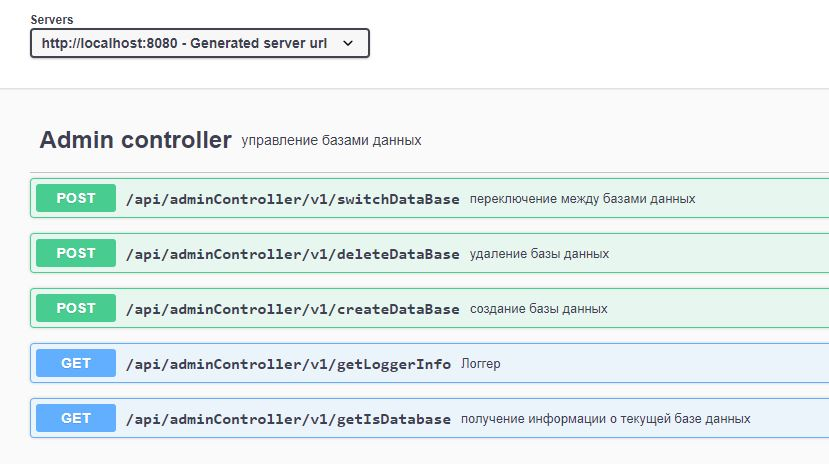
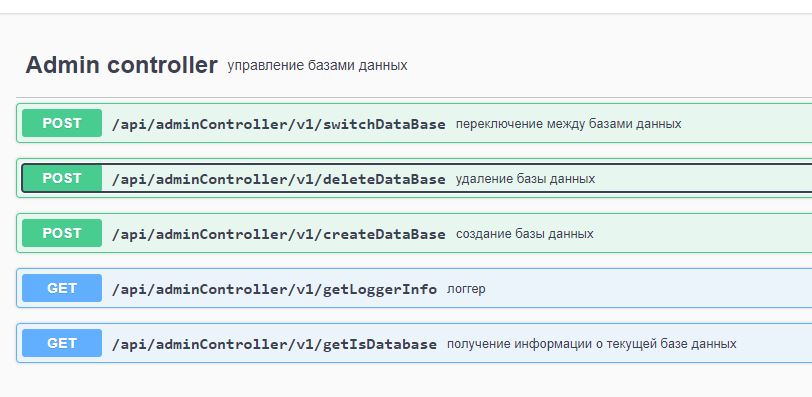
refactoring

Changed region(s): [[0.0, 0.2418, 1.0, 0.9673], [0.0308, 0.0302, 0.5234, 0.1814]]

diff --git a/Glossary/src/main/java/com/zvezdilin/Glossary/api/AdminController.java b/Glossary/src/main/java/com/zvezdilin/Glossary/api/AdminController.java
@@ -63,13 +63,14 @@ public class AdminController {
     )
     @PostMapping(value = "createDataBase")
     public String createDataBase() {
+        boolean tmp;
         if (isDataBase == IsDataBase.MONGODB) {
             dao = new MongoDbDao();
         } else {
             dao = new PostgreSqlDao();
         }
-        dao.createDatabase();
-        myLogger.appendInfo("Attempt to create a database. Status: " + getIsDatabaseInfo());
+        tmp = dao.createDatabase();
+        myLogger.appendInfo("Attempt to create a database: " + getIsDatabaseInfo() + ". " + "Status " + String.valueOf(tmp));
         return "Created database a " + getIsDatabaseInfo();
     }
 
@@ -79,13 +80,14 @@ public class AdminController {
     )
     @PostMapping(value = "deleteDataBase")
     public String deleteDataBase() {
+        boolean tmp;
         if (isDataBase == IsDataBase.MONGODB) {
             dao = new MongoDbDao();
         } else {
             dao = new PostgreSqlDao();
         }
-        dao.deleteDatabase();
-        myLogger.appendInfo("Attempt to delete a database " + getIsDatabaseInfo());
+        tmp = dao.deleteDatabase();
+        myLogger.appendInfo("Attempt to delete a database: " + getIsDatabaseInfo() + ". " + "Status: " + String.valueOf(tmp));
         return "deleted database a " + getIsDatabaseInfo();
     }
 
@@ -99,7 +101,7 @@ public class AdminController {
     }
 
     @Operation(
-            summary = "Логгер"
+            summary = "логгер"
     )
     @GetMapping("getLoggerInfo")
     public String getLoggerInfo() {

diff --git a/Glossary/src/main/java/com/zvezdilin/Glossary/api/EngineController.java b/Glossary/src/main/java/com/zvezdilin/Glossary/api/EngineController.java
@@ -3,8 +3,10 @@ package com.zvezdilin.Glossary.api;
 import com.zvezdilin.Glossary.engine.Engine;
 import io.swagger.v3.oas.annotations.Operation;
 import io.swagger.v3.oas.annotations.media.Schema;
+import io.swagger.v3.oas.annotations.tags.Tag;
 import org.springframework.web.bind.annotation.*;
 
+@Tag(name = "Engine controller", description = "контроллер взаимодействия с хранилищем")
 @RestController
 @RequestMapping(value = "api/engineController/v1/")
 public class EngineController {
@@ -18,19 +20,7 @@ public class EngineController {
     @Operation(
             summary = "методы добавления, удаления слов и их вывода"
     )
-    @Schema(description = "json-строка", example = "{ \"target\": \"ADD\", " +
-            "\"word\": \"unit\", " +
-            "\"translation\": \"единица измерения\", " +
-            "\"locale\": \"EN\"" +
-            "}" +
-            "OR" +
-            "{ \"target\": \"REMOVE\", " +
-            "\"word\": \"unit\"" +
-            "}" +
-            "OR" +
-            "{ \"target\": \"GETALLTASKS\" " +
-            "}"
-    )
+//    @Schema(description = "json-строка", example = "json-string")
     @PostMapping("startEngine")
     public String startEngine(@RequestBody String requestFromClientInJson) {
         String result = "";

diff --git a/Glossary/src/main/java/com/zvezdilin/Glossary/engine/StorageConnector.java b/Glossary/src/main/java/com/zvezdilin/Glossary/engine/StorageConnector.java
@@ -2,12 +2,16 @@ package com.zvezdilin.Glossary.engine;
 
 import com.zvezdilin.Glossary.model.entity.English;
 import com.zvezdilin.Glossary.model.entity.Language;
+import io.swagger.v3.oas.annotations.Hidden;
+import io.swagger.v3.oas.annotations.tags.Tag;
 import org.springframework.web.bind.annotation.*;
 
 import java.util.*;
 import java.util.logging.Level;
 import java.util.logging.Logger;
 
+@Hidden
+@Tag(name = "storage", description = "не клиентский endpoint для работы со storage connector")
 @RestController
 @RequestMapping("api/storage")
 public class StorageConnector implements Storage {
@@ -19,7 +23,7 @@ public class StorageConnector implements Storage {
         wordsMap = GlobalRepository.getRepository().getWordsMap();
     }
 
-    @PostMapping("addWord")  //TODO отсюда убрать @PostMapping
+    @PostMapping("addWord")
     @Override
     public boolean addWord(@RequestParam("word") String word, @RequestParam("translate") String translate, @RequestParam("locale") String locale) {
         Language newWord = null;

diff --git a/README.md b/README.md
@@ -10,7 +10,7 @@
 
 ![запуск](img/3.%20browser.JPG)
 
-Перед вами откроется API-интерфейс взаимодейсвия с приложением:
+Перед вами откроется интерактивное окно API-интерфейса:
 
 ![запуск](img/1.%20interface.JPG)
 
@@ -19,7 +19,7 @@ http://localhost:8080/swagger-ui/index.html
 
 Результат будет таким же.
 
-**Первый блок запрос - запросы администратора, такие как**
+**Первый блок запросов - запросы администратора, такие как**
 - переключение между базами данных;
 - удаление базы данных;
 - создание базы данных;
